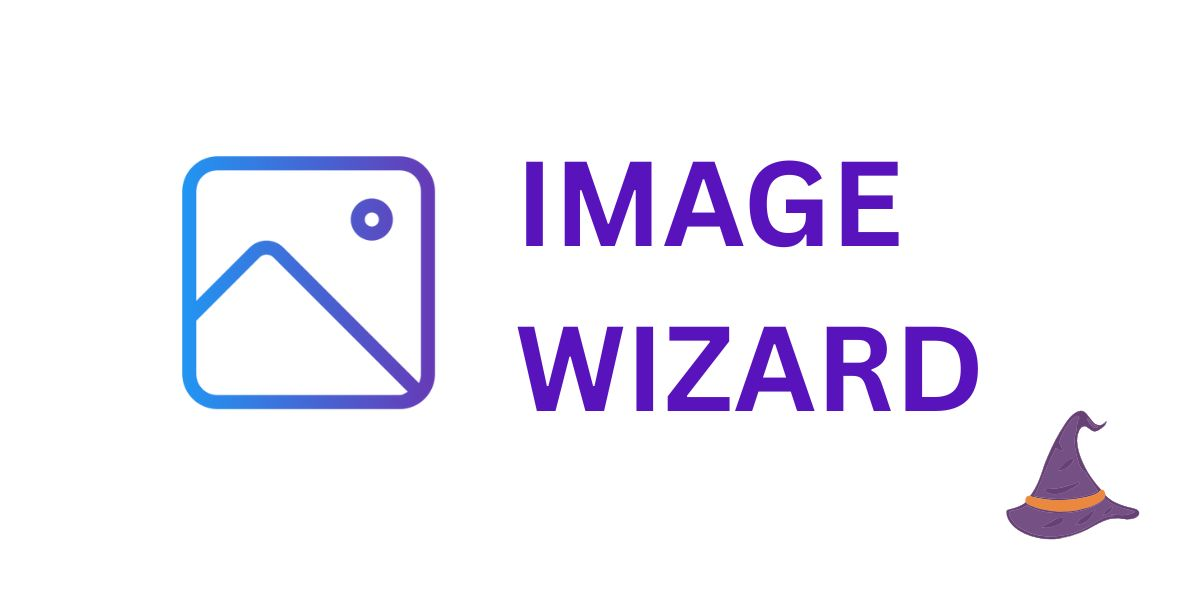
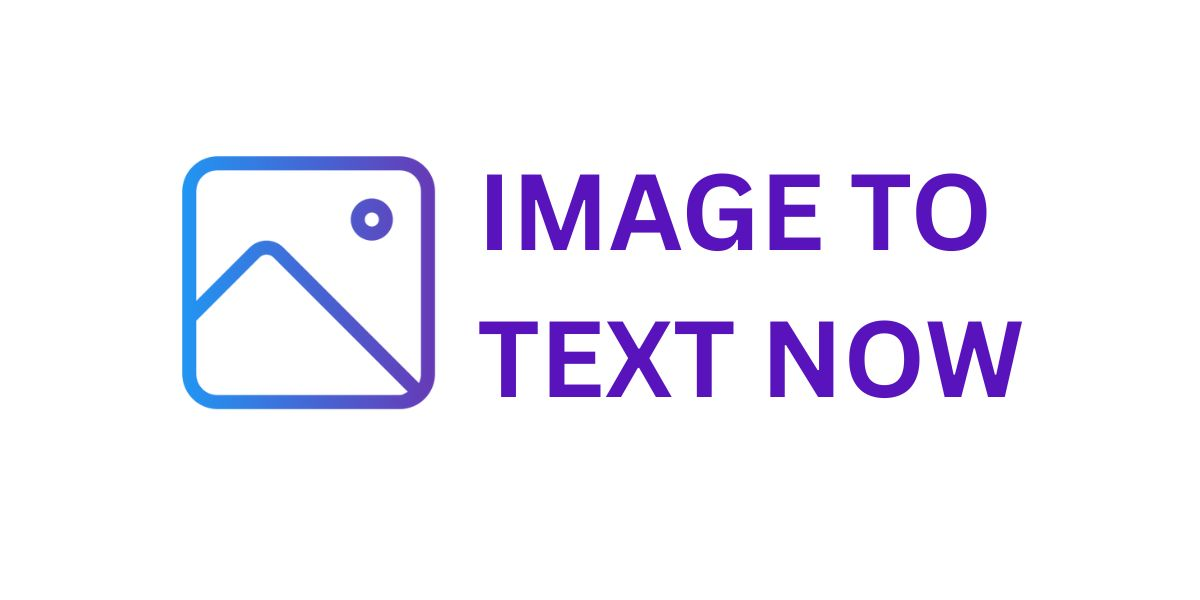
changed responsiveness

Changed region(s): [[0.4008, 0.51, 0.8633, 0.69], [0.4008, 0.27, 0.8325, 0.42], [0.8325, 0.69, 0.9558, 0.9]]

diff --git a/components/profile-page.tsx b/components/profile-page.tsx
@@ -1,7 +1,7 @@
 // app/profile/page.tsx
 "use client";
 
-import { useState, useEffect } from "react";
+import { useQuery } from "@tanstack/react-query";
 import { CreditCard, LogOut } from "lucide-react";
 import { Button } from "@/components/ui/button";
 import { Card, CardContent, CardHeader, CardTitle } from "@/components/ui/card";
@@ -29,45 +29,34 @@ type ProfileData = {
   }[];
 };
 
+async function fetchProfileData(): Promise<ProfileData> {
+  const res = await fetch("/api/profile");
+  if (!res.ok) {
+    throw new Error("Failed to fetch profile");
+  }
+  return res.json();
+}
+
 export function ProfilePage() {
   const { isSignedIn } = useUser();
-  const [profileData, setProfileData] = useState<ProfileData | null>(null);
-  const [loading, setLoading] = useState(true);
-  const [isError, setIsError] = useState(false);
 
-  useEffect(() => {
-    if (isSignedIn) {
-      fetchProfile();
-    } else {
-      setLoading(false);
-    }
-  }, [isSignedIn]);
-
-  const fetchProfile = async () => {
-    setIsError(false);
-    try {
-      const res = await fetch("/api/profile");
-      if (!res.ok) {
-        setIsError(true);
-        throw new Error("Failed to fetch profile");
-      }
-      const data = await res.json();
-      setProfileData(data);
-    } catch (error) {
-      setIsError(true);
-      console.error("Profile fetch error:", error);
-    } finally {
-      setLoading(false);
-      setIsError(false);
-    }
-  };
+  const {
+    data: profileData,
+    isLoading,
+    isError,
+  } = useQuery({
+    queryKey: ["profile"],
+    queryFn: fetchProfileData,
+    enabled: isSignedIn, // Only fetch when user is signed in
+    retry: 1, // Retry once on failure
+  });
 
   const handleBuyCredits = async () => {
     try {
       const res = await fetch("/api/checkout", {
         method: "POST",
         headers: { "Content-Type": "application/json" },
-        body: JSON.stringify({}), // No packageId needed
+        body: JSON.stringify({}),
       });
       const { checkoutUrl } = await res.json();
       window.location.href = checkoutUrl;
@@ -98,9 +87,8 @@ export function ProfilePage() {
     );
   }
 
-  if (loading) return <Loader />;
-  if (!loading && isError && !profileData)
-    return <div>Error loading profile data</div>;
+  if (isLoading) return <Loader />;
+  if (isError) return <div>Error loading profile data</div>;
 
   return (
     <div className="mx-auto max-w-4xl">
@@ -182,33 +170,30 @@ export function ProfilePage() {
           {profileData?.purchases.length === 0 ? (
             <p>No purchase history available.</p>
           ) : (
-            <>
-              <div className="overflow-x-auto">
-                <Table className="overflow-x-auto">
-                  <TableHeader>
-                    <TableRow>
-                      <TableHead>Date</TableHead>
-                      <TableHead>Credits Bought</TableHead>
-                      <TableHead>Amount Paid</TableHead>
-                      <TableHead>Package</TableHead>
+            <div className="overflow-x-auto">
+              <Table className="overflow-x-auto">
+                <TableHeader>
+                  <TableRow>
+                    <TableHead>Date</TableHead>
+                    <TableHead>Credits Bought</TableHead>
+                    <TableHead>Amount Paid</TableHead>
+                    <TableHead>Package</TableHead>
+                  </TableRow>
+                </TableHeader>
+                <TableBody>
+                  {profileData?.purchases.map((item) => (
+                    <TableRow key={item.id}>
+                      <TableCell className="font-medium">
+                        {new Date(item.date).toLocaleDateString()}
+                      </TableCell>
+                      <TableCell>{item.credits}</TableCell>
+                      <TableCell>${item.amount.toFixed(2)}</TableCell>
+                      <TableCell>{item.variant || "Unknown"}</TableCell>
                     </TableRow>
-                  </TableHeader>
-                  <TableBody>
-                    {profileData?.purchases.map((item) => (
-                      <TableRow key={item.id}>
-                        <TableCell className="font-medium">
-                          {new Date(item.date).toLocaleDateString()}
-                        </TableCell>
-                        <TableCell>{item.credits}</TableCell>
-                        <TableCell>${item.amount.toFixed(2)}</TableCell>
-                        <TableCell>{item.variant || "Unknown"}</TableCell>
-                      </TableRow>
-                    ))}
-                  </TableBody>
-                </Table>
-              </div>
-           
-            </>
+                  ))}
+                </TableBody>
+              </Table>
+            </div>
           )}
         </CardContent>
       </Card>

diff --git a/app/layout.tsx b/app/layout.tsx
@@ -9,12 +9,12 @@ import Provider from "@/components/provider";
 const inter = Inter({ subsets: ["latin"] });
 
 export const metadata = {
-  title: "ImageWizard - Image Conversion Made Easy",
-  description: "Convert images to text or code with our powerful AI tools",
+  title: "ImageToTextNow - Image Conversion Made Easy",
+  description: "Free Convert images to text or code with our powerful AI tools",
   keywords:
-    "image conversion, AI tools, image to text, image to code, ImageWizard",
+    "image conversion, AI tools, image to text, image to code, ImageToTextNow",
   openGraph: {
-    title: "ImageWizard - Image Conversion Made Easy",
+    title: "ImageToTextNow - Image Conversion Made Easy",
     description: "Convert images to text or code with our powerful AI tools",
     url: process.env.NEXT_PUBLIC_URL, // Replace with your domain
     type: "website",
@@ -23,7 +23,7 @@ export const metadata = {
         url: `${process.env.NEXT_PUBLIC_URL}/og-image.jpg`, // Add an OG image
         width: 1200,
         height: 630,
-        alt: "ImageWizard Preview",
+        alt: "ImageToTextNow Preview",
       },
     ],
   },
@@ -50,7 +50,7 @@ export default function RootLayout({
                 __html: JSON.stringify({
                   "@context": "https://schema.org",
                   "@type": "WebSite",
-                  name: "ImageWizard",
+                  name: "ImageToTextNow",
                   url: `${process.env.NEXT_PUBLIC_URL}`,
                   potentialAction: {
                     "@type": "SearchAction",
@@ -60,6 +60,7 @@ export default function RootLayout({
                 }),
               }}
             />
+            <meta name="google-site-verification" content="sX4zMfEvkW61LuTRt8qj5nkXHP5woMXgX4X7YozlBoo" />
           </head>
           <body className={`${inter.className} min-h-screen bg-[#F9FAFB]`}>
             <SidebarProvider>{children}</SidebarProvider>

diff --git a/components/convert-page.tsx b/components/convert-page.tsx
@@ -171,11 +171,11 @@ export function ConvertPage() {
     <div className="mx-auto w-full max-w-5xl">
       <h1 className="mb-6 text-2xl font-bold md:text-3xl">Convert Your File</h1>
 
-      <div className="mb-6 grid gap-6 w-full md:grid-cols-[2fr_1fr]">
-        <div>
+      <div className="mb-6 grid gap-6 w-full lg:grid-cols-3">
+        <div className="lg:col-span-2">
           <FileUpload onFileSelected={handleFileSelected} />
         </div>
-        <Card className="w-full">
+        <Card className="w-full lg:col-span-1">
           <CardHeader>
             <CardTitle>Conversion Settings</CardTitle>
           </CardHeader>

diff --git a/components/file-upload.tsx b/components/file-upload.tsx
@@ -110,7 +110,7 @@ export function FileUpload({ onFileSelected }: FileUploadProps) {
           </div>
         ) : (
           <div className="space-y-4 w-fit">
-            <div className="relative rounded-lg border overflow-hidden w-full">
+            <div className="relative rounded-lg border overflow-hidden flex flex-col items-center justify-center w-full">
               {selectedFile.type.startsWith("image/") ? (
                 <Image
                   src={preview || ""}

diff --git a/components/app-shell.tsx b/components/app-shell.tsx
@@ -76,7 +76,7 @@ export function AppShell({ children }: { children: React.ReactNode }) {
             </button>
             <Link href="/" className="flex items-center gap-2">
               <ImageIcon className="h-6 w-6 text-blue-500" />
-              <span className="text-xl font-bold">ImageWizard</span>
+              <span className="text-xl font-bold">ImageToTextNow</span>
             </Link>
           </div>
           <nav className="hidden md:flex items-center gap-6">
